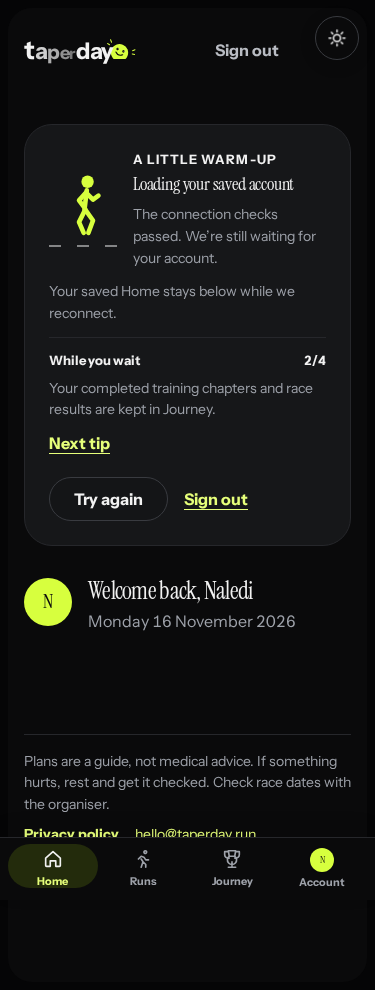
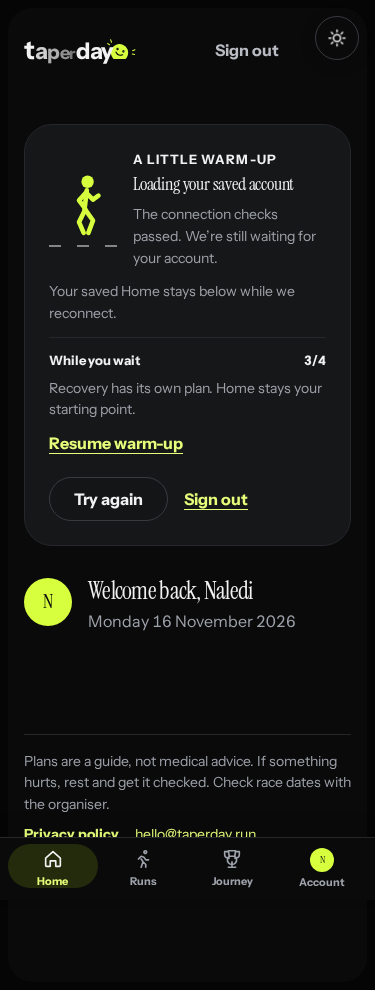
fix(account): play warm-up tips automatically

Changed region(s): [[0.1173, 0.3636, 0.6747, 0.4545], [0.792, 0.3636, 0.8507, 0.3939], [0.704, 0.3636, 0.7627, 0.3939]]

diff --git a/client/src/features/account/SignInWait.test.tsx b/client/src/features/account/SignInWait.test.tsx
@@ -1,13 +1,17 @@
 import { act, fireEvent, render, screen } from '@testing-library/react'
 import { afterEach, beforeEach, expect, it, vi } from 'vitest'
 import * as client from '../../lib/api-client'
-import { SignInWait } from './SignInWait'
+import { SignInWait, WARMUP_TIP_MS } from './SignInWait'
 import { SLOW_AFTER_MS, WAKE_CHECK_MS } from './wait-film'
 
-beforeEach(() => { vi.useFakeTimers(); vi.spyOn(client, 'isUp').mockResolvedValue(false) })
+beforeEach(() => {
+  vi.useFakeTimers()
+  vi.spyOn(client, 'isUp').mockResolvedValue(true)
+  vi.spyOn(document, 'visibilityState', 'get').mockReturnValue('visible')
+})
 afterEach(() => { vi.restoreAllMocks(); vi.unstubAllGlobals(); vi.useRealTimers() })
 
-it('shows the runner only for a slow load, lets motion pause and resumes without affecting retry or tips', async () => {
+it('starts automatically on a slow load, rotates tips, and pauses/resumes without affecting retry', async () => {
   const retry = vi.fn(), signOut = vi.fn()
   const { container } = render(<SignInWait onRetry={retry} onSignOut={signOut} />)
   await act(() => vi.advanceTimersByTimeAsync(SLOW_AFTER_MS - 1))
@@ -15,38 +19,56 @@ it('shows the runner only for a slow load, lets motion pause and resumes without
   expect(client.isUp).not.toHaveBeenCalled()
   await act(() => vi.advanceTimersByTimeAsync(1))
   expect(container.querySelector('.runner-sprint')).toHaveAttribute('aria-hidden', 'true')
-  expect(screen.getByRole('status')).toHaveTextContent('Connecting to Taperday')
-  fireEvent.click(screen.getByRole('button', { name: 'Pause animation' }))
+  expect(screen.queryByRole('button', { name: 'Next tip' })).not.toBeInTheDocument()
+  expect(screen.getByText(/A free Strava account can bring/)).toBeVisible()
+  await act(() => vi.advanceTimersByTimeAsync(WARMUP_TIP_MS))
+  expect(screen.getByText(/completed training chapters and race results are kept in Journey/)).toBeVisible()
+  fireEvent.click(screen.getByRole('button', { name: 'Pause warm-up' }))
   expect(container.querySelector('.account-warmup')).toHaveAttribute('data-paused', 'true')
-  expect(screen.getByRole('button', { name: 'Resume animation' })).toHaveAttribute('aria-pressed', 'true')
-  fireEvent.click(screen.getByRole('button', { name: 'Next tip' }))
-  expect(screen.getByText(/completed training chapters and race results are kept in Journey/)).toBeVisible()
-  vi.mocked(client.isUp).mockResolvedValue(true)
-  await act(() => vi.advanceTimersByTimeAsync(WAKE_CHECK_MS))
-  expect(screen.getByRole('status')).toHaveTextContent('Loading your saved account')
-  expect(screen.getByText(/completed training chapters and race results are kept in Journey/)).toBeVisible()
-  expect(screen.queryByText(/Almost there|100%/)).not.toBeInTheDocument()
-  fireEvent.click(screen.getByRole('button', { name: 'Resume animation' }))
+  await act(() => vi.advanceTimersByTimeAsync(WARMUP_TIP_MS * 2))
+  expect(screen.getByText(/completed training chapters/)).toBeVisible()
+  fireEvent.click(screen.getByRole('button', { name: 'Resume warm-up' }))
   expect(container.querySelector('.account-warmup')).toHaveAttribute('data-paused', 'false')
+  await act(() => vi.advanceTimersByTimeAsync(WARMUP_TIP_MS))
+  expect(screen.getByText(/Recovery has its own plan/)).toBeVisible()
+  expect(screen.getByRole('status')).toHaveTextContent('Loading your saved account')
+  expect(screen.queryByText(/Almost there|100%/)).not.toBeInTheDocument()
   fireEvent.click(screen.getByRole('button', { name: 'Try again' }))
   fireEvent.click(screen.getByRole('button', { name: 'Sign out' }))
   expect(retry).toHaveBeenCalledOnce()
   expect(signOut).toHaveBeenCalledOnce()
 })
 
-it('keeps a saved Home quiet on fast loads and gives reduced-motion users a still runner with usable tips', async () => {
+it('keeps saved Home quiet on fast loads and plays tips with a pause control in reduced motion', async () => {
   vi.stubGlobal('matchMedia', (query: string) => ({ matches: query === '(prefers-reduced-motion: reduce)', addEventListener: vi.fn(), removeEventListener: vi.fn() }))
   const { container } = render(<SignInWait quietUntilSlow onRetry={vi.fn()} onSignOut={vi.fn()} />)
   expect(container).toBeEmptyDOMElement()
   await act(() => vi.advanceTimersByTimeAsync(SLOW_AFTER_MS))
-  expect(container.querySelector('.account-warmup')).toHaveAttribute('data-paused', 'true')
-  expect(screen.queryByRole('button', { name: /animation/ })).not.toBeInTheDocument()
+  expect(container.querySelector('.account-warmup')).toHaveAttribute('data-reduced-motion', 'true')
+  expect(container.querySelector('.account-warmup-tip > p')).toHaveAttribute('aria-live', 'off')
   expect(screen.getByText(/Your saved Home stays below/)).toBeVisible()
-  fireEvent.click(screen.getByRole('button', { name: 'Next tip' }))
+  await act(() => vi.advanceTimersByTimeAsync(WARMUP_TIP_MS))
+  expect(screen.getByText(/completed training chapters/)).toBeVisible()
+  fireEvent.click(screen.getByRole('button', { name: 'Pause warm-up' }))
+  await act(() => vi.advanceTimersByTimeAsync(WARMUP_TIP_MS * 2))
   expect(screen.getByText(/completed training chapters/)).toBeVisible()
 })
 
-it('stops dependency checks after the actual account load removes the warm-up', async () => {
+it('suspends tips in a hidden tab and gives a full reading interval on return', async () => {
+  render(<SignInWait onRetry={vi.fn()} onSignOut={vi.fn()} />)
+  await act(() => vi.advanceTimersByTimeAsync(SLOW_AFTER_MS))
+  const visibility = vi.spyOn(document, 'visibilityState', 'get').mockReturnValue('hidden')
+  act(() => document.dispatchEvent(new Event('visibilitychange')))
+  await act(() => vi.advanceTimersByTimeAsync(WARMUP_TIP_MS * 2))
+  expect(screen.getByText(/A free Strava account can bring/)).toBeVisible()
+  act(() => { visibility.mockReturnValue('visible'); document.dispatchEvent(new Event('visibilitychange')) })
+  await act(() => vi.advanceTimersByTimeAsync(WARMUP_TIP_MS - 1))
+  expect(screen.getByText(/A free Strava account can bring/)).toBeVisible()
+  await act(() => vi.advanceTimersByTimeAsync(1))
+  expect(screen.getByText(/completed training chapters/)).toBeVisible()
+})
+
+it('stops dependency checks and autoplay after the account load removes the warm-up', async () => {
   const { unmount } = render(<SignInWait onRetry={vi.fn()} onSignOut={vi.fn()} />)
   await act(() => vi.advanceTimersByTimeAsync(SLOW_AFTER_MS))
   expect(client.isUp).toHaveBeenCalledWith('live')
@@ -54,5 +76,6 @@ it('stops dependency checks after the actual account load removes the warm-up', 
   unmount()
   await act(() => vi.advanceTimersByTimeAsync(WAKE_CHECK_MS * 3))
   expect(client.isUp).toHaveBeenCalledTimes(before)
+  expect(vi.getTimerCount()).toBe(0)
   expect(screen.queryByRole('region', { name: 'Connecting to Taperday' })).not.toBeInTheDocument()
 })

diff --git a/client/src/features/account/SignInWait.tsx b/client/src/features/account/SignInWait.tsx
@@ -15,6 +15,8 @@ const NOTE: Record<WakeStep, string> = {
   database: 'Taperday is responding. We’re checking access to your saved data.',
   almost: 'The connection checks passed. We’re still waiting for your account.',
 }
+export const WARMUP_TIP_MS = 8_000
+
 const TIPS = [
   'A free Strava account can bring phone and watch recordings into Taperday.',
   'Your completed training chapters and race results are kept in Journey.',
@@ -29,7 +31,7 @@ interface Props {
   quietUntilSlow?: boolean
 }
 
-/** A real connection wait, with no artificial film duration, progress percentage or automatic tip changes. */
+/** A real connection wait, with automatic tips and no artificial film duration or progress percentage. */
 export function SignInWait({ onRetry, onSignOut, quietUntilSlow = false }: Props) {
   const [slow, setSlow] = useState(false)
   const [paused, setPaused] = useState(false)
@@ -42,11 +44,23 @@ export function SignInWait({ onRetry, onSignOut, quietUntilSlow = false }: Props
     return () => window.clearTimeout(timer)
   }, [])
 
+  useEffect(() => {
+    if (!slow || paused) return
+    let timer: number | undefined
+    const resumeWhenVisible = () => {
+      window.clearInterval(timer)
+      if (document.visibilityState === 'visible') timer = window.setInterval(() => setTip(value => (value + 1) % TIPS.length), WARMUP_TIP_MS)
+    }
+    resumeWhenVisible()
+    document.addEventListener('visibilitychange', resumeWhenVisible)
+    return () => { window.clearInterval(timer); document.removeEventListener('visibilitychange', resumeWhenVisible) }
+  }, [slow, paused])
+
   if (quietUntilSlow && !slow) return null
   if (!slow) return <div className="sign-in-wait"><p className="loading-line" role="status">Checking your account<span className="loading-dots" aria-hidden="true"><i /><i /><i /></span></p></div>
 
   return (
-    <section className="sign-in-wait account-warmup" aria-label="Connecting to Taperday" data-paused={paused || reduced}>
+    <section className="sign-in-wait account-warmup" aria-label="Connecting to Taperday" data-paused={paused} data-reduced-motion={reduced}>
       <div className="account-warmup-heading">
         <div className="account-warmup-visual" aria-hidden="true"><span className="account-warmup-track" /><Runner pose="sprint" size={62} /></div>
         <div>
@@ -60,10 +74,9 @@ export function SignInWait({ onRetry, onSignOut, quietUntilSlow = false }: Props
       {quietUntilSlow && <p className="field-help">Your saved Home stays below while we reconnect.</p>}
       <div className="account-warmup-tip">
         <div className="account-warmup-tip-label"><span>While you wait</span><span aria-hidden="true">{tip + 1}/{TIPS.length}</span></div>
-        <p className="field-help" aria-live="polite" aria-atomic="true">{TIPS[tip]}</p>
+        <p className="field-help" aria-live="off">{TIPS[tip]}</p>
         <div className="account-warmup-controls">
-          <button type="button" className="link-button" onClick={() => setTip(value => (value + 1) % TIPS.length)}>Next tip</button>
-          {!reduced && <button type="button" className="link-button" aria-pressed={paused} onClick={() => setPaused(value => !value)}>{paused ? 'Resume animation' : 'Pause animation'}</button>}
+          <button type="button" className="link-button" onClick={() => setPaused(value => !value)}>{paused ? 'Resume warm-up' : 'Pause warm-up'}</button>
         </div>
       </div>
       <div className="submit-row">

diff --git a/client/e2e/account-loading-recovery.spec.ts b/client/e2e/account-loading-recovery.spec.ts
@@ -74,7 +74,7 @@ test('cached Home → slow account → deadline → retry restores the saved cha
 })
 
 for (const motion of ['no-preference', 'reduce'] as const) {
-  test(`slow connection has a controllable runner, useful tips and immediate recovery with ${motion} motion @phone`, async ({ page }, info) => {
+  test(`slow connection has an automatic runner and rotating tips and immediate recovery with ${motion} motion @phone`, async ({ page }, info) => {
     const state = await connection(page)
     await page.emulateMedia({ reducedMotion: motion })
     await page.setViewportSize({ width: 375, height: 900 })
@@ -93,19 +93,21 @@ for (const motion of ['no-preference', 'reduce'] as const) {
     await expect(nav).toBeVisible()
     expect(await warm.locator('.limb').count()).toBeGreaterThan(0)
     const animationStates = () => warm.locator('.limb').evaluateAll(limbs => limbs.map(limb => ({ name: getComputedStyle(limb).animationName, state: getComputedStyle(limb).animationPlayState })))
-    if (motion === 'no-preference') {
-      expect((await animationStates()).every(value => value.name !== 'none' && value.state === 'running')).toBe(true)
-      await warm.getByRole('button', { name: 'Pause animation', exact: true }).click()
-      expect((await animationStates()).every(value => value.state === 'paused')).toBe(true)
-      await warm.getByRole('button', { name: 'Resume animation', exact: true }).click()
-      expect((await animationStates()).every(value => value.state === 'running')).toBe(true)
-      await warm.getByRole('button', { name: 'Pause animation', exact: true }).click()
-    } else {
-      expect((await animationStates()).every(value => value.name === 'none')).toBe(true)
-      await expect(warm.getByRole('button', { name: /animation/ })).toHaveCount(0)
-    }
-    await warm.getByRole('button', { name: 'Next tip', exact: true }).click()
+    if (motion === 'no-preference') expect((await animationStates()).every(value => value.name !== 'none' && value.state === 'running')).toBe(true)
+    else expect((await animationStates()).every(value => value.name === 'none')).toBe(true)
+    await expect(warm.getByRole('button', { name: 'Next tip', exact: true })).toHaveCount(0)
+    await expect(warm).toContainText('A free Strava account can bring')
+    await page.clock.runFor(8000)
     await expect(warm).toContainText('completed training chapters and race results are kept in Journey')
+    await warm.getByRole('button', { name: 'Pause warm-up', exact: true }).click()
+    if (motion === 'no-preference') expect((await animationStates()).every(value => value.state === 'paused')).toBe(true)
+    await page.clock.runFor(8000)
+    await expect(warm).toContainText('completed training chapters and race results are kept in Journey')
+    await warm.getByRole('button', { name: 'Resume warm-up', exact: true }).click()
+    if (motion === 'no-preference') expect((await animationStates()).every(value => value.state === 'running')).toBe(true)
+    await page.clock.runFor(8000)
+    await expect(warm).toContainText('Recovery has its own plan. Home stays your starting point.')
+    await warm.getByRole('button', { name: 'Pause warm-up', exact: true }).click()
     for (const width of [320, 375, 820, 1440]) for (const mode of ['light', 'dark']) {
       await page.setViewportSize({ width, height: 900 })
       await page.evaluate(value => { document.documentElement.dataset.theme = value }, mode)

diff --git a/docs/qa/2026-11-17/account-warmup/README.md b/docs/qa/2026-11-17/account-warmup/README.md
@@ -1,8 +1,8 @@
 # Account connection warm-up
 
-A normal account request keeps the compact account-check line (or stays quiet above an already saved Home). After six seconds, the connection card reuses Taperday's volt runner on a moving track. It displays dependency-check results, concise copy explaining the wait, and optional tips about Strava, Journey, separate recovery and file uploads. It never reports a percentage or claims the account is ready before it responds.
+A normal account request keeps the compact account-check line (or stays quiet above an already saved Home). After six seconds, the connection card reuses Taperday's volt runner on a moving track. It displays dependency-check results, concise copy explaining the wait, and automatic tips about Strava, Journey, separate recovery and file uploads. It never reports a percentage or claims the account is ready before it responds.
 
-Pause/Resume controls stop the runner and track. Reduced-motion users get a still runner without playback controls. Tips change only when Next tip is selected; connection progress does not cycle them. Live status announces actual dependency changes, decorative motion stays outside the accessibility tree, and the tips have a separate polite announcement when manually changed.
+Pause/Resume controls stop the runner, track and tip rotation. Tips rotate every eight seconds with no Next tip button. Reduced-motion users get a still runner while tips continue automatically; Pause/Resume remains available to stop the text. Hidden tabs suspend rotation and receive a full reading interval on return. Live status announces actual dependency changes; decorative motion and automatic tip changes do not produce repeated screen-reader announcements.
 
 The card does not overlay Home, lock scrolling, move focus or change navigation. A saved greeting and navigation remain visible. Home's duplicate chapter-loading placeholder is suppressed only while the account connection already has its own loading state. The normal chapter/recovery UI resumes after the account loads. The existing 60-second account deadline and retry/sign-out behavior remain.
 
@@ -10,7 +10,7 @@ There is no minimum animation duration: the card disappears as soon as the accou
 
 ## Screenshots
 
-Normal motion is paused for consistent screenshots; the tests verify running, pause and resume styles before capture.
+The warm-up is paused for consistent screenshots; the tests verify running, pause and resume styles before capture.
 
 | View | Light | Night Run |
 | --- | --- | --- |
@@ -21,7 +21,7 @@ Normal motion is paused for consistent screenshots; the tests verify running, pa
 
 ## Validation
 
-- `SignInWait.test.tsx`: delayed appearance, quiet saved Home, pause/resume, manual tips retained through health-stage changes, reduced motion, retry/sign-out and health-loop cleanup.
+- `SignInWait.test.tsx`: delayed appearance, quiet saved Home, pause/resume, automatic tip rotation and pause/resume, reduced motion, retry/sign-out and health-loop cleanup.
 - `sign-in-flow.test.tsx`: existing fast account behavior, verified health ordering, cached Home, retry and sign-in regression cases remain; wording now states that the account is still loading after health checks pass.
 - `account-loading-recovery.spec.ts`: real App, controlled pending account request, cached Home and navigation retained, no duplicate chapter spinner, timeout and retry, CSS animation pause/resume, reduced motion, tips, and immediate opening after the pending request resolves without another retry or a film-end delay.
 - Both themes at 320, 375, 820 and 1440px: all WCAG 2 A/AA, 2.1 A/AA and 2.2 AA tags, overflow checks and mobile/desktop screenshots.
